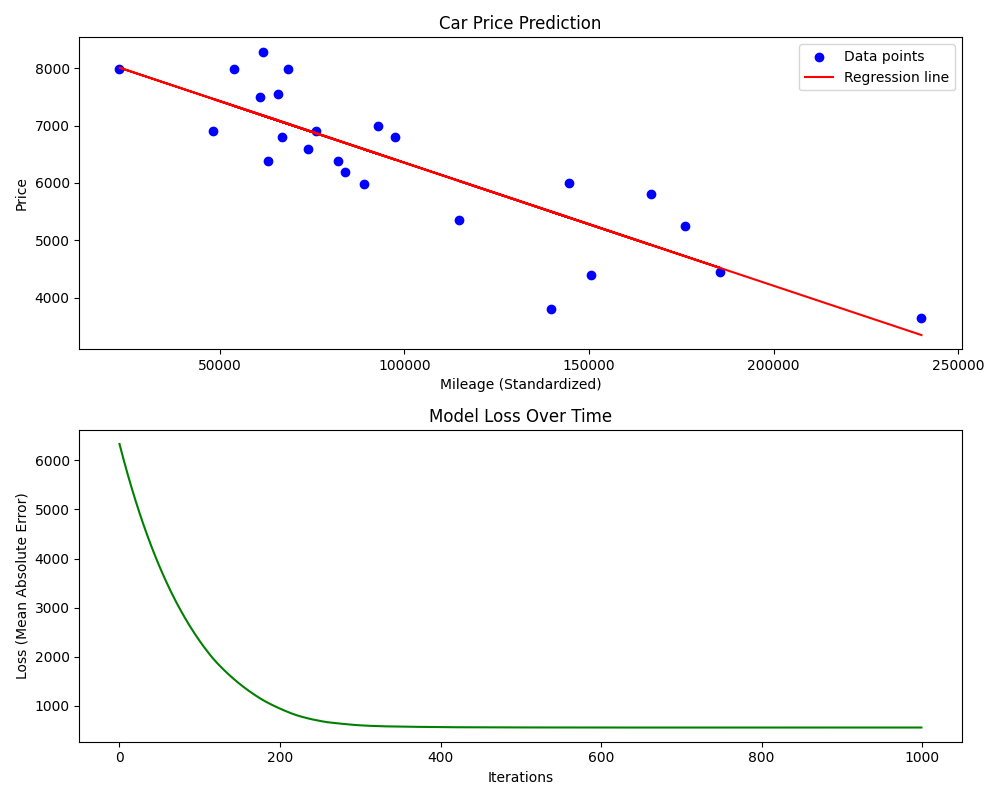
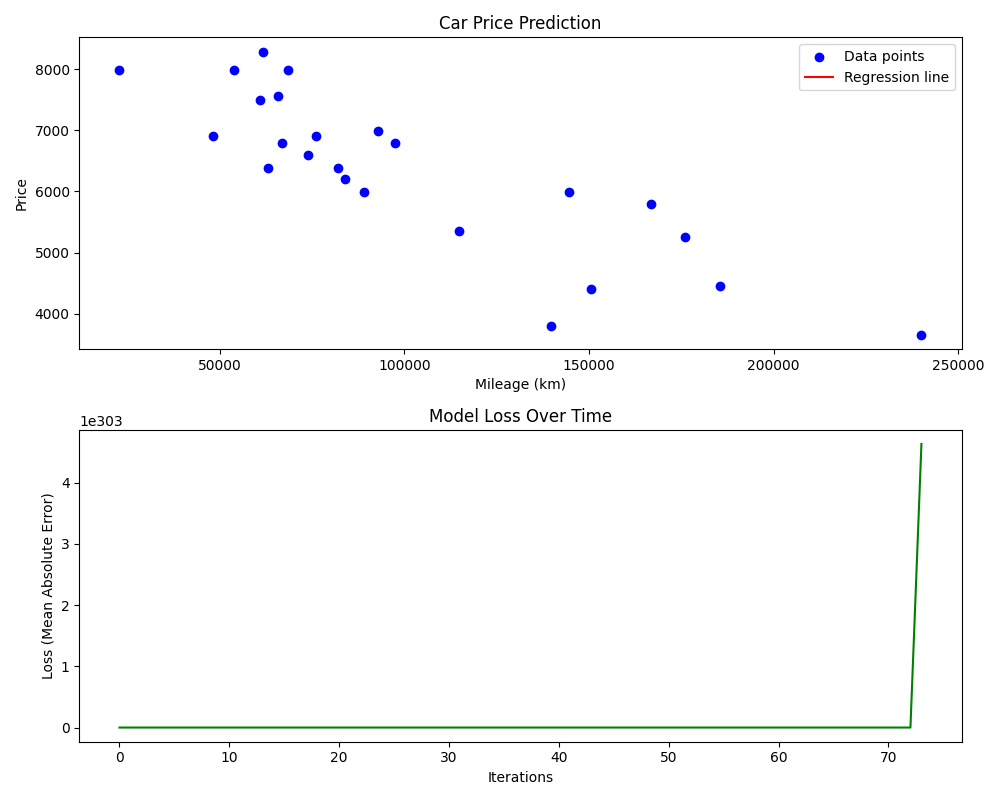
OK with data normalization

diff --git a/srcKO/train.py b/srcKO/train.py
@@ -1,0 +1,108 @@
+import math
+import csv
+import json
+import matplotlib.pyplot as plt
+
+DATAS = "../data/data.csv"
+PARAMETERS = "../models/parameters.json"
+ITERATIONS = 1000000
+LEARNING_RATE = 0.000001
+
+
+def read_dataset():
+    try:
+        mileage = []
+        price = []
+        with open(DATAS, "r") as file:
+            input_file = csv.DictReader(file)
+            for row in input_file:
+                try:
+                    mileage.append(float(row["km"]))
+                    price.append(float(row["price"]))
+                except ValueError:
+                    print(f"Invalid data found: {row}")
+                    continue
+    except Exception as e:
+        print(f"Error: An error occurred: {e}")
+        exit(1)
+    return mileage, price
+
+
+def ft_predict_y(mileage, theta0, theta1):
+    y_prediction = [theta0 + (mileage[i] * theta1) for i in range(len(mileage))]
+    return y_prediction
+
+
+def ft_mean_absolute_error(price, y_prediction):
+    mae = sum(abs(y_prediction[i] - price[i]) for i in range(len(price))) / len(price)
+    return mae
+
+
+def ft_linear_regression(mileage, price):
+    theta0 = 0
+    theta1 = 0
+    losses = []
+
+    for iteration in range(ITERATIONS):
+        y_prediction = ft_predict_y(mileage, theta0, theta1)
+        gradient_theta0 = sum(y_prediction[i] - price[i] for i in range(len(price))) / len(price)
+        gradient_theta1 = sum((y_prediction[i] - price[i]) * mileage[i] for i in range(len(price))) / len(price)
+
+        theta0 -= LEARNING_RATE * gradient_theta0
+        theta1 -= LEARNING_RATE * gradient_theta1
+
+        loss = ft_mean_absolute_error(price, y_prediction)
+        losses.append(loss)
+
+    return theta0, theta1, losses
+
+
+def update_parameters(theta0, theta1):
+    try:
+        try:
+            with open(PARAMETERS, "r") as file:
+                data = json.load(file)
+        except (FileNotFoundError, json.JSONDecodeError):
+            data = {}
+
+        data["theta0"] = theta0
+        data["theta1"] = theta1
+
+        with open(PARAMETERS, "w") as file:
+            json.dump(data, file)
+    except Exception as e:
+        print(f"Error: An error occurred while updating parameters: {e}")
+        exit(1)
+
+
+def plot_graph_display(mileage, price, theta0, theta1, losses):
+    plt.figure(figsize=(10, 8))
+
+    plt.subplot(2, 1, 1)
+    plt.scatter(mileage, price, color='blue', label='Data points')
+    y_prediction = ft_predict_y(mileage, theta0, theta1)
+    plt.plot(mileage, y_prediction, color='red', label='Regression line')
+    plt.xlabel("Mileage (km)")
+    plt.ylabel("Price")
+    plt.title("Car Price Prediction")
+    plt.legend()
+
+    plt.subplot(2, 1, 2)
+    plt.plot(range(len(losses)), losses, color='green')
+    plt.xlabel("Iterations")
+    plt.ylabel("Loss (Mean Absolute Error)")
+    plt.title("Model Loss Over Time")
+
+    plt.tight_layout()
+    plt.savefig("../results/plot_graph.png")
+
+
+def main():
+    mileage, price = read_dataset()
+    theta0, theta1, losses = ft_linear_regression(mileage, price)
+    update_parameters(theta0, theta1)
+    plot_graph_display(mileage, price, theta0, theta1, losses)
+
+
+if __name__ == "__main__":
+    main()

diff --git a/src_std/predict.py b/src_std/predict.py
@@ -43,44 +43,3 @@ def main():
 
 if __name__ == "__main__":
     main()
-
-# # TEST CODE
-# import json
-# import sys
-
-# def get_thetas_values() :
-# 	try:
-# 		with open("../models/parameters.json", "r") as read_file:
-# 			data = json.load(read_file)
-# 	except:
-# 		sys.exit(-1)
-# 	return data["theta0"], data["theta1"]
-
-# def price_estimation() :
-# 	theta0, theta1 = get_thetas_values()
-# 	while(1):
-# 		s = input("Wich mileage is on your car ? ")
-# 		if not s:
-# 			print('\nPlease enter a value')
-# 		else:
-# 			break
-# 	try:
-# 		assert(all([c in '-0123456789' for c in s]))
-# 	except:
-# 		print('\nPlease use a valid litteral value for int() with base 10.')
-# 		sys.exit(-1)
-# 	km_input = float(s)
-# 	if km_input < 0:
-# 		print("\nA mileage under 0 ?\n.\n.\n.\nReally ?")
-# 		sys.exit(-1)
-# 	if km_input >= 409764:
-# 		print("\nYour price car is estimated at 0 euros or under.. You should not sell it.")
-# 		sys.exit(-1)
-# 	km = (km_input - 22899) / (240000 - 22899)
-# 	price = theta0 + km * theta1
-# 	print("\nYour price car is estimated at " + str(int(price)) + " euros.")
-
-
-# if __name__ == '__main__' :
-# 	price_estimation()
- 

diff --git a/srcKO/predict.py b/srcKO/predict.py
@@ -1,0 +1,41 @@
+
+import json
+
+def import_parameters():
+    try:
+        with open("../models/parameters.json", "r") as file:
+            return json.load(file)
+    except Exception as e:
+        print(f"An error occurred: {e}")
+        exit(1)
+
+
+def price_estimation(mileage, theta0, theta1):
+    return theta0 + (theta1 * mileage)
+
+
+def main():
+    parameters = import_parameters()
+    theta0 = parameters["theta0"]
+    theta1 = parameters["theta1"]
+
+    while True:
+        try:
+            mileage = float(input("Enter a mileage : "))
+            if mileage < 0:
+                raise Exception("Mileage can't be a negative number.")
+            break
+        except ValueError:
+            print("Invalid input, please enter a valid input (float).")
+        except Exception as e:
+            print(f"{e}")
+            exit(1)
+    price = int(price_estimation(mileage, theta0, theta1))
+    if price <= 0:
+        print(f"Price estimated : 0")
+    else:
+    	print(f"Price estimated : {price}")
+
+
+if __name__ == "__main__":
+    main()

diff --git a/src_std/train.py b/src_std/train.py
@@ -74,6 +74,7 @@ def ft_linear_regression(mileage_std, price):
         y_prediction = ft_predict_y(mileage_std, theta0, theta1)
         gradient_theta0 = sum(y_prediction[i] - price[i] for i in range(len(price))) / len(price)
         gradient_theta1 = sum((y_prediction[i] - price[i]) * mileage_std[i] for i in range(len(price))) / len(price)
+
         theta0 -= LEARNING_RATE * gradient_theta0
         theta1 -= LEARNING_RATE * gradient_theta1
         
